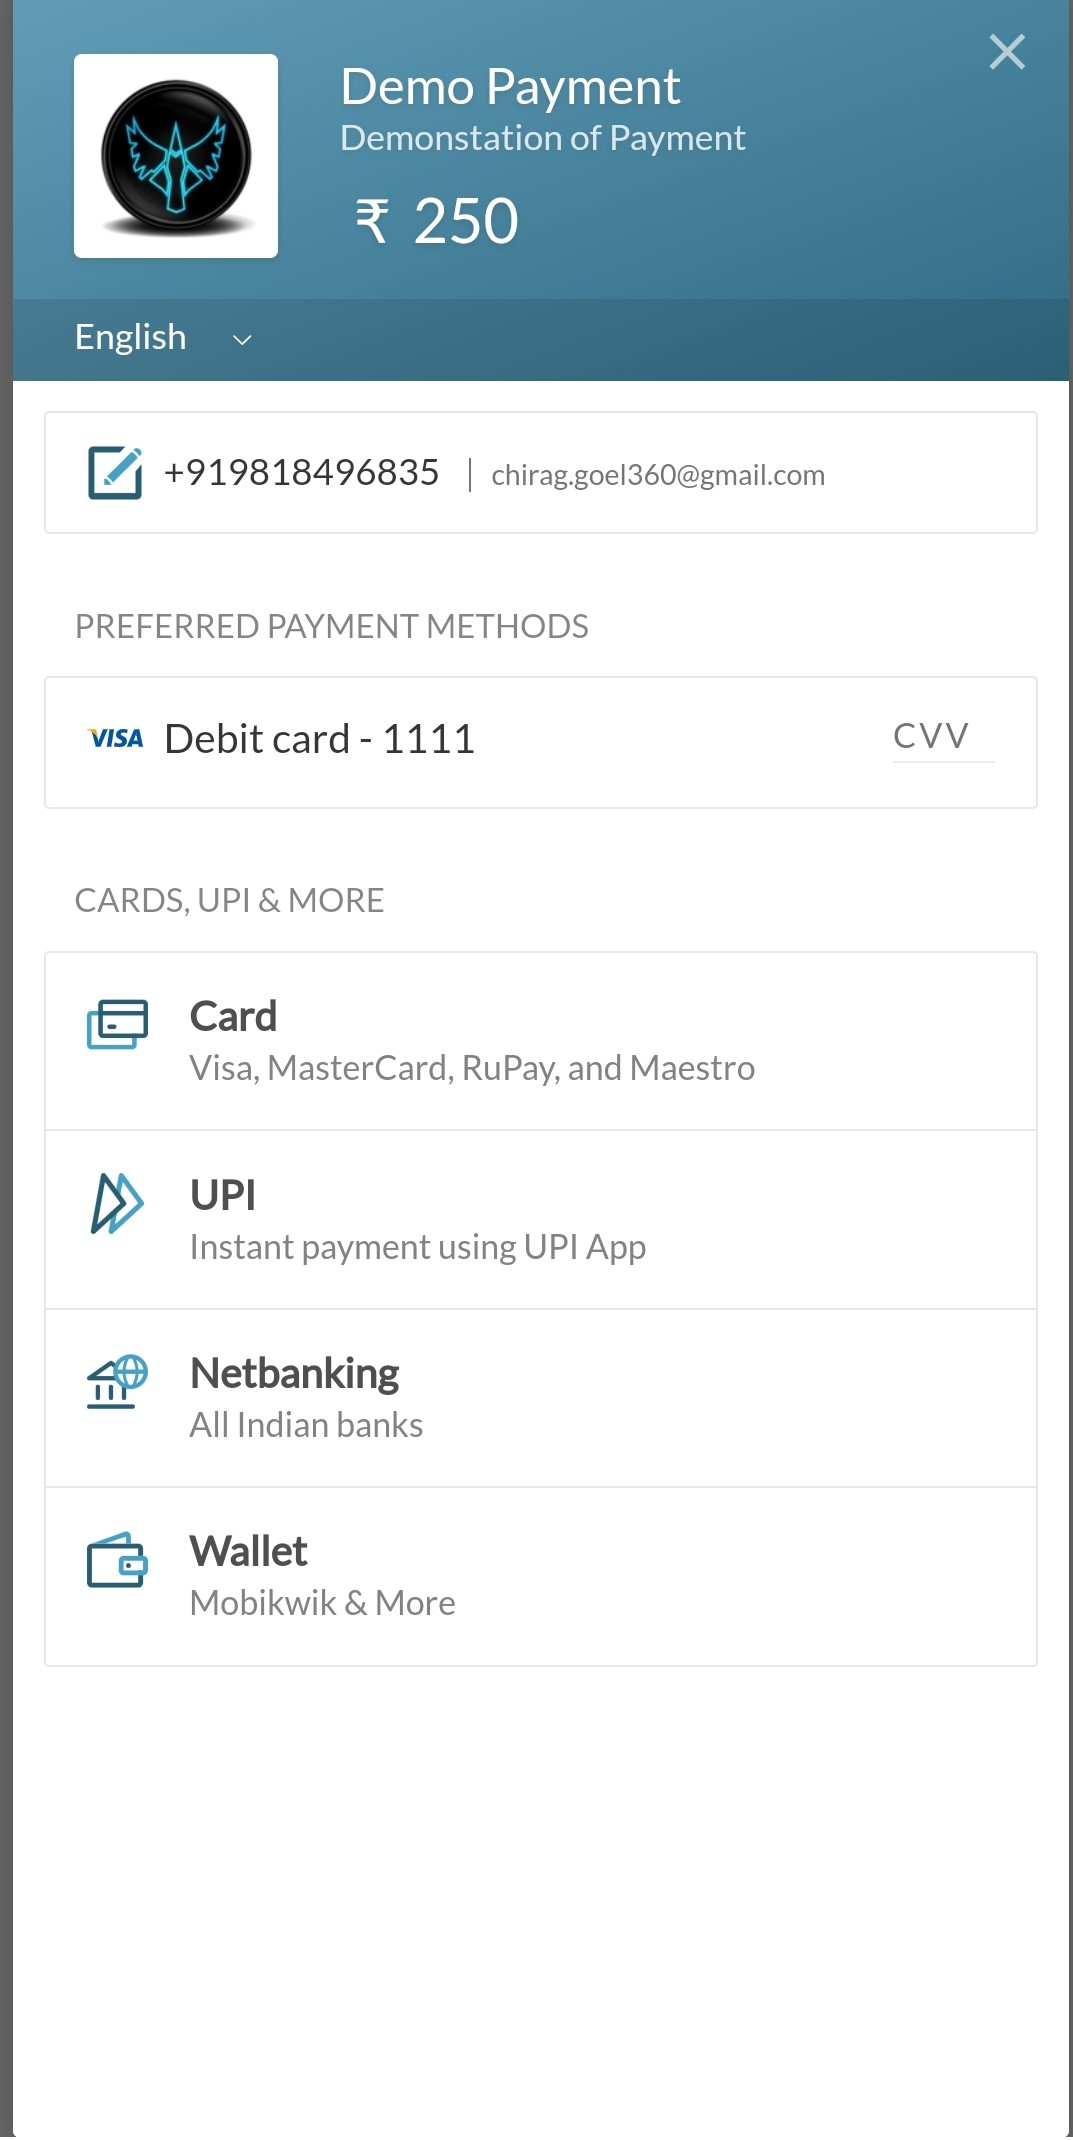
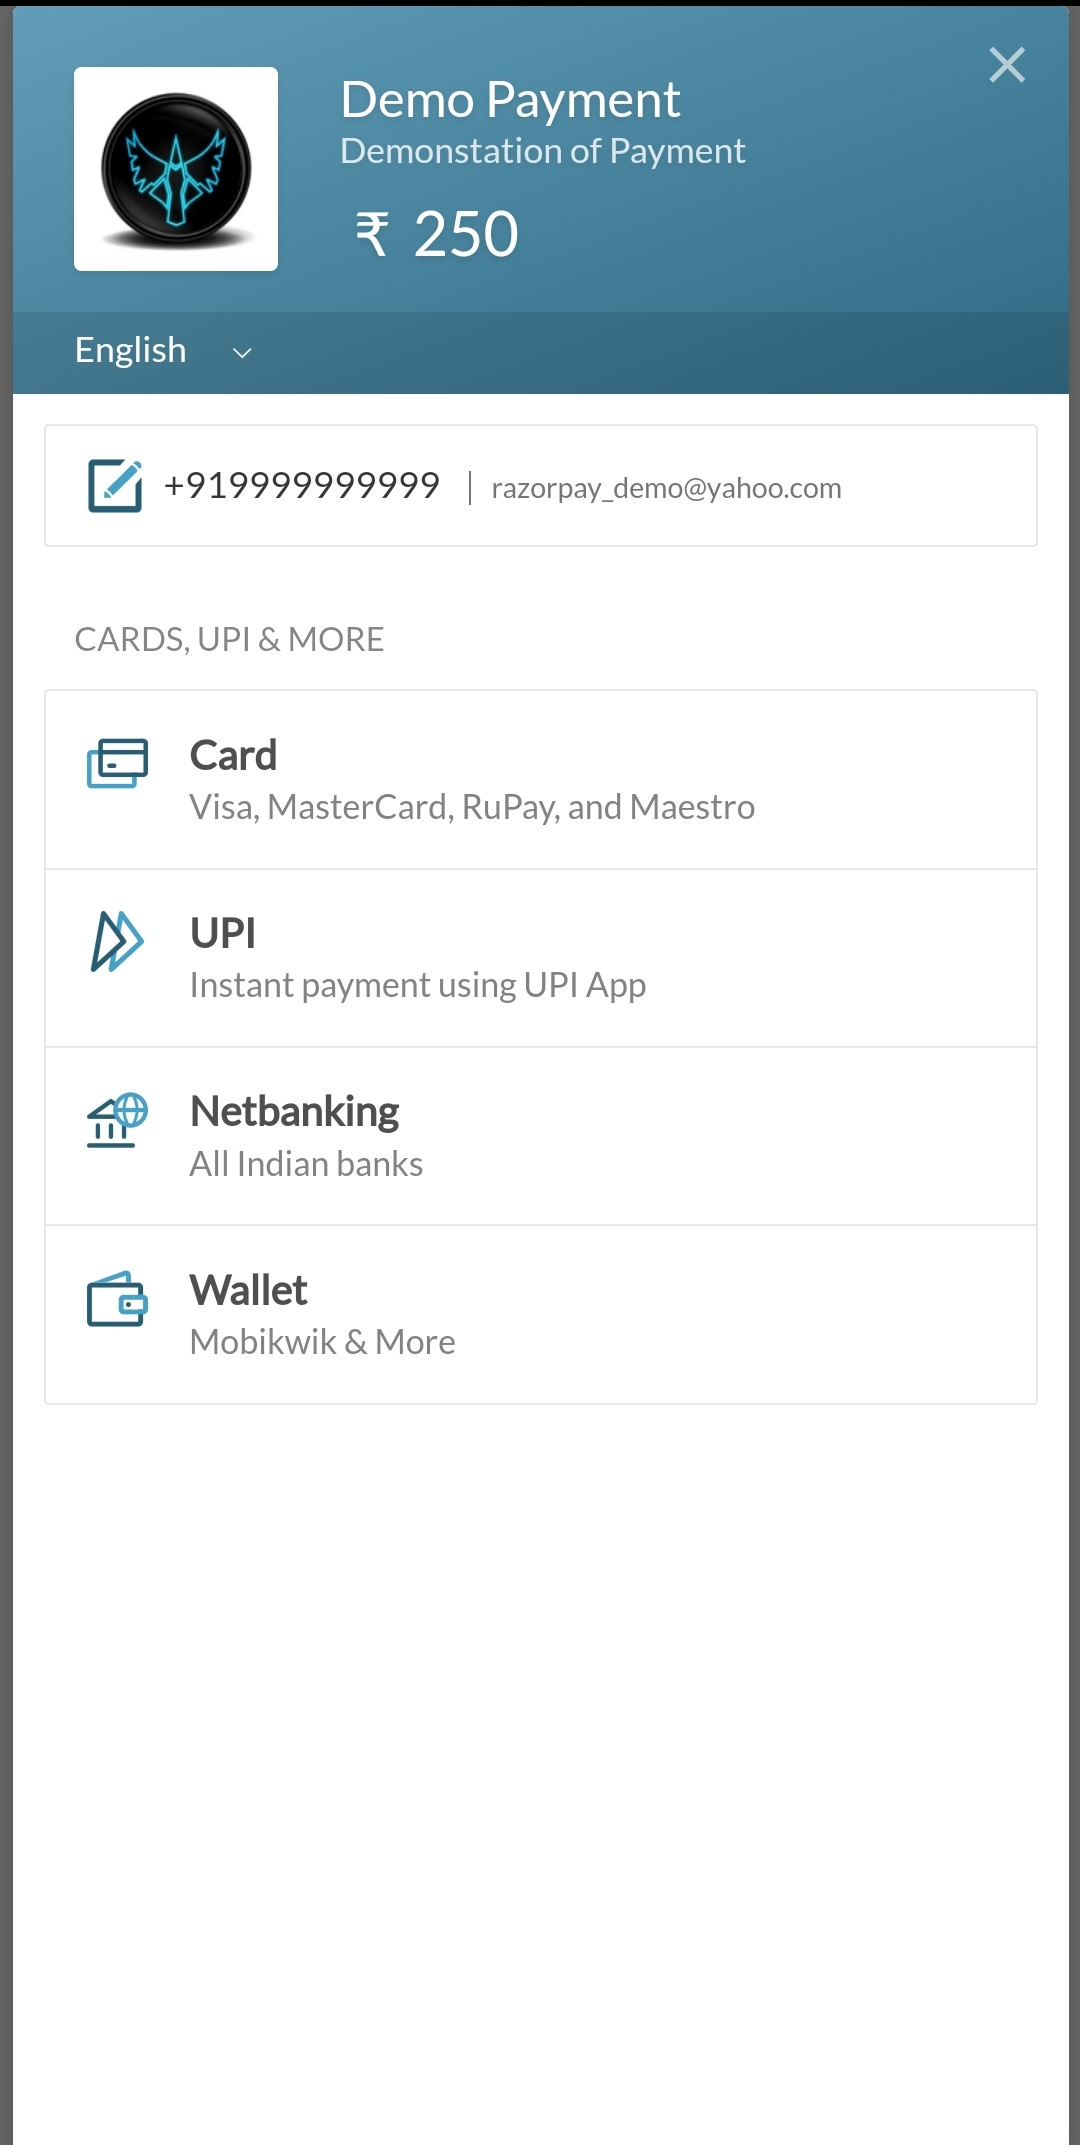
Readme.md

diff --git a/lib/homepage.dart b/lib/homepage.dart
@@ -219,7 +219,7 @@ class _HomePageState extends State<HomePage> {
       'amount': 250 * 100,
       'name': 'Demo Payment',
       'description': 'Demonstation of Payment',
-      'prefill': {'contact': '', 'email': ''},
+      'prefill': {'contact': '9999999999', 'email': 'razorpay_demo@yahoo.com'},
       'external': {
         'wallets': ['paytm']
       }
